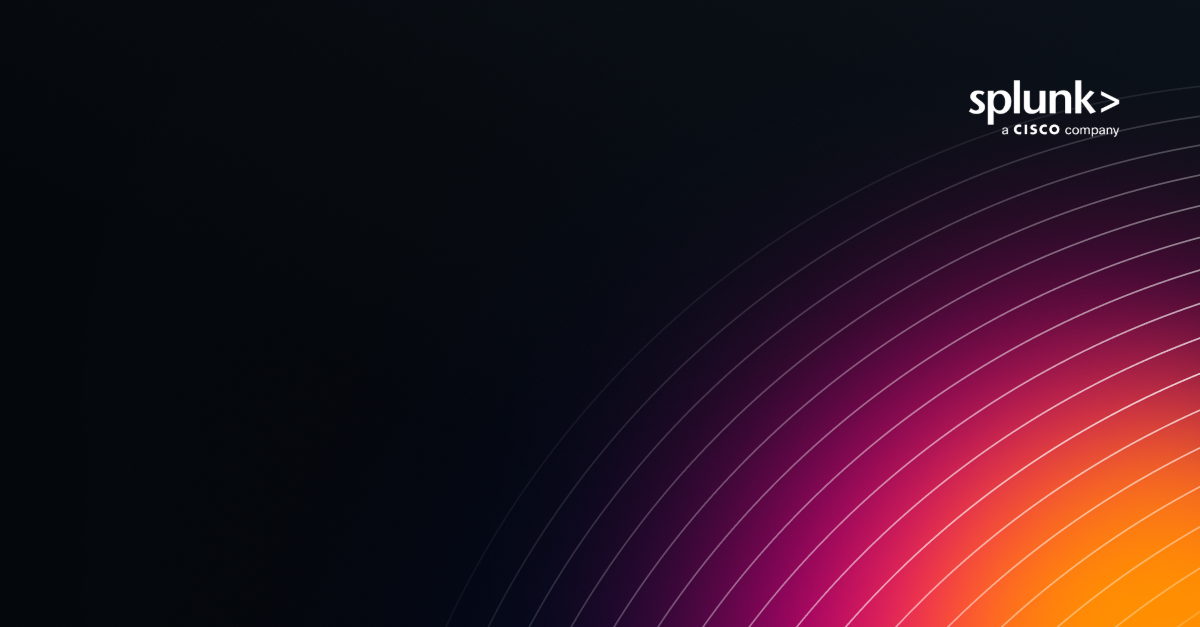
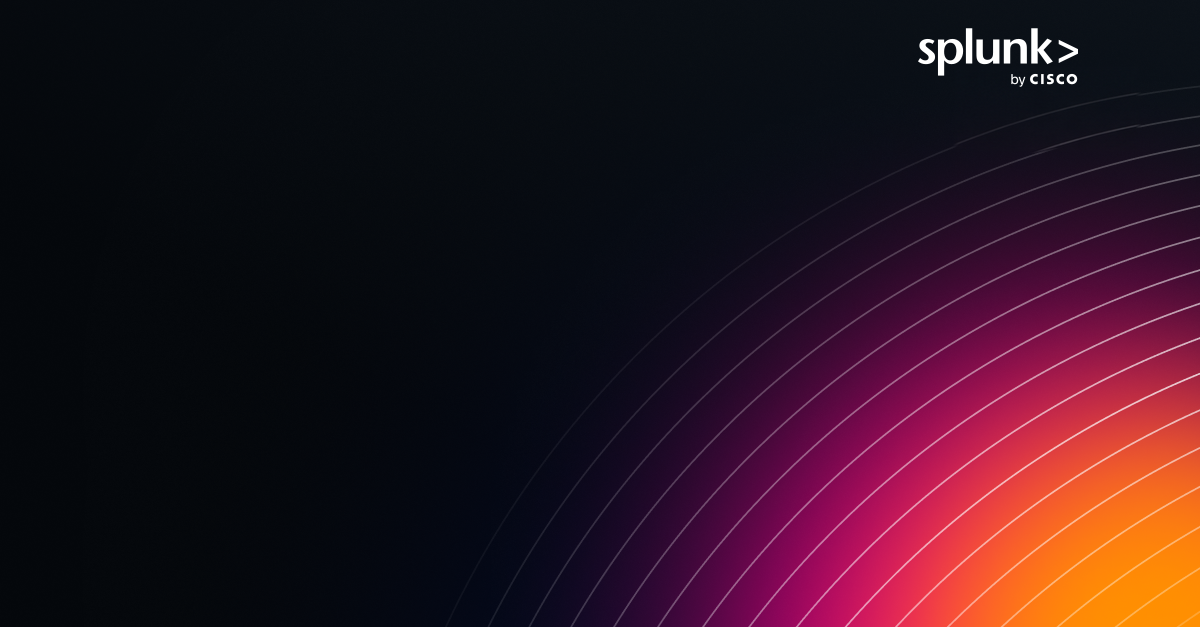
Apply Splunk by Cisco across all portal templates

Changed region(s): [[0.7708, 0.0606, 0.9558, 0.2424]]

diff --git a/app.js b/app.js
@@ -73,7 +73,7 @@ const socialFormats = {
       booth: { x: 78, y: 566, maxWidth: 650, font: 34 },
       profile: { x: 188, y: 636, maxWidth: 350 },
       portrait: { x: 560, y: 468, size: 445 },
-      logo: { x: 824, y: 20, width: 220, height: 119 },
+      logo: { x: 788, y: 56, width: 220, height: 81 },
     },
   },
   landscape: {
@@ -89,7 +89,7 @@ const socialFormats = {
       booth: { x: 72, y: 425, maxWidth: 620, font: 28 },
       profile: { x: 72, y: 449, maxWidth: 480 },
       portrait: { x: 802, y: 266, size: 288 },
-      logo: { x: 938, y: 30, width: 190, height: 102 },
+      logo: { x: 918, y: 28, width: 160, height: 59 },
     },
   },
   portrait: {
@@ -105,7 +105,7 @@ const socialFormats = {
       booth: { x: 76, y: 555, maxWidth: 700, font: 32 },
       profile: { x: 116, y: 1010, maxWidth: 490 },
       portrait: { x: 554, y: 588, size: 428 },
-      logo: { x: 824, y: 28, width: 220, height: 119 },
+      logo: { x: 788, y: 56, width: 220, height: 81 },
     },
   },
   story: {
@@ -121,7 +121,7 @@ const socialFormats = {
       booth: { x: 76, y: 692, maxWidth: 720, font: 34 },
       profile: { x: 112, y: 1584, maxWidth: 820 },
       portrait: { x: 228, y: 804, size: 624 },
-      logo: { x: 824, y: 72, width: 220, height: 119 },
+      logo: { x: 788, y: 96, width: 220, height: 81 },
     },
   },
 };
@@ -565,7 +565,7 @@ function renderCard() {
   }
   ctx.clearRect(0, 0, width, height);
   drawBackground();
-  if (!(currentBackgroundMode() === "concentric-circles" && hasMatchingConcentricMaster())) drawLogo();
+  drawLogo();
 
   drawText(intentCopy(fields.intent.value), { ...layout.eyebrow, weight: 650, color: "#FFFFFF" });
   drawText(fields.title.value.trim(), { ...layout.title, weight: 680, gradient: true });
@@ -739,9 +739,9 @@ async function start() {
   try {
     const [background, logo, concentricSquare, concentricLandscape] = await Promise.all([
       loadImage("assets/generic-event-background.png"),
-      loadImage("assets/splunk-corporate-white.png"),
-      loadImage("assets/concentric-circles-square.png"),
-      loadImage("assets/concentric-circles-landscape.png"),
+      loadImage("assets/splunk-by-cisco-white.svg"),
+      loadImage("assets/concentric-circles-square-background.png"),
+      loadImage("assets/concentric-circles-landscape-background.png"),
     ]);
     state.genericBackground = background;
     state.logo = logo;

diff --git a/index.html b/index.html
@@ -8,12 +8,12 @@
     <link rel="preconnect" href="https://fonts.googleapis.com" />
     <link rel="preconnect" href="https://fonts.gstatic.com" crossorigin />
     <link href="https://fonts.googleapis.com/css2?family=Noto+Sans+JP:wght@400;500;600;700&family=Noto+Sans+KR:wght@400;500;600;700&family=Noto+Sans+SC:wght@400;500;600;700&family=Noto+Sans+TC:wght@400;500;600;700&family=Noto+Sans+Thai:wght@400;500;600;700&display=swap" rel="stylesheet" />
-    <link rel="stylesheet" href="styles.css?v=features-20260928" />
+    <link rel="stylesheet" href="styles.css?v=brand-20261019" />
   </head>
   <body>
     <header class="site-header">
       <a class="brand" href="#top" aria-label="Splunk Event Social Card Studio">
-        <img src="assets/splunk-corporate-white.png" alt="Splunk, a Cisco company" />
+        <img src="assets/splunk-by-cisco-white.svg" alt="Splunk by Cisco" />
       </a>
         <p>Event social card studio</p>
     </header>
@@ -258,6 +258,6 @@
       </section>
     </main>
 
-    <script src="app.js?v=features-20260928"></script>
+    <script src="app.js?v=brand-20261019"></script>
   </body>
 </html>

diff --git a/README.md b/README.md
@@ -4,7 +4,8 @@ An entirely browser-based MVP for generating responsive, single-speaker event so
 
 ## What it does
 
-- Uses the supplied concentric-circle masters directly for Square and Landscape exports, with the skyline-free glow/grid background as an alternate option and the default for unsupported vertical masters.
+- Uses the supplied concentric-circle artwork for Square and Landscape exports, with the skyline-free glow/grid background as an alternate option and the default for unsupported vertical masters.
+- Applies the official Splunk by Cisco logo as a separate layer to every card and the portal header. The concentric-circle background files have no embedded logo; the standalone Square and Landscape graphics also carry the current lockup.
 - Lets a user select a post message, enter event details, upload a profile photo, adjust its crop, and export a PNG.
 - Provides platform-aware placements for LinkedIn, Facebook, Instagram, X, WhatsApp, and other use: Square (1080 × 1080), Landscape (1200 × 627), Portrait Feed (1080 × 1350), and Story / Status (1080 × 1920).
 - Lets an event owner upload an approved event background that matches the chosen output size.
